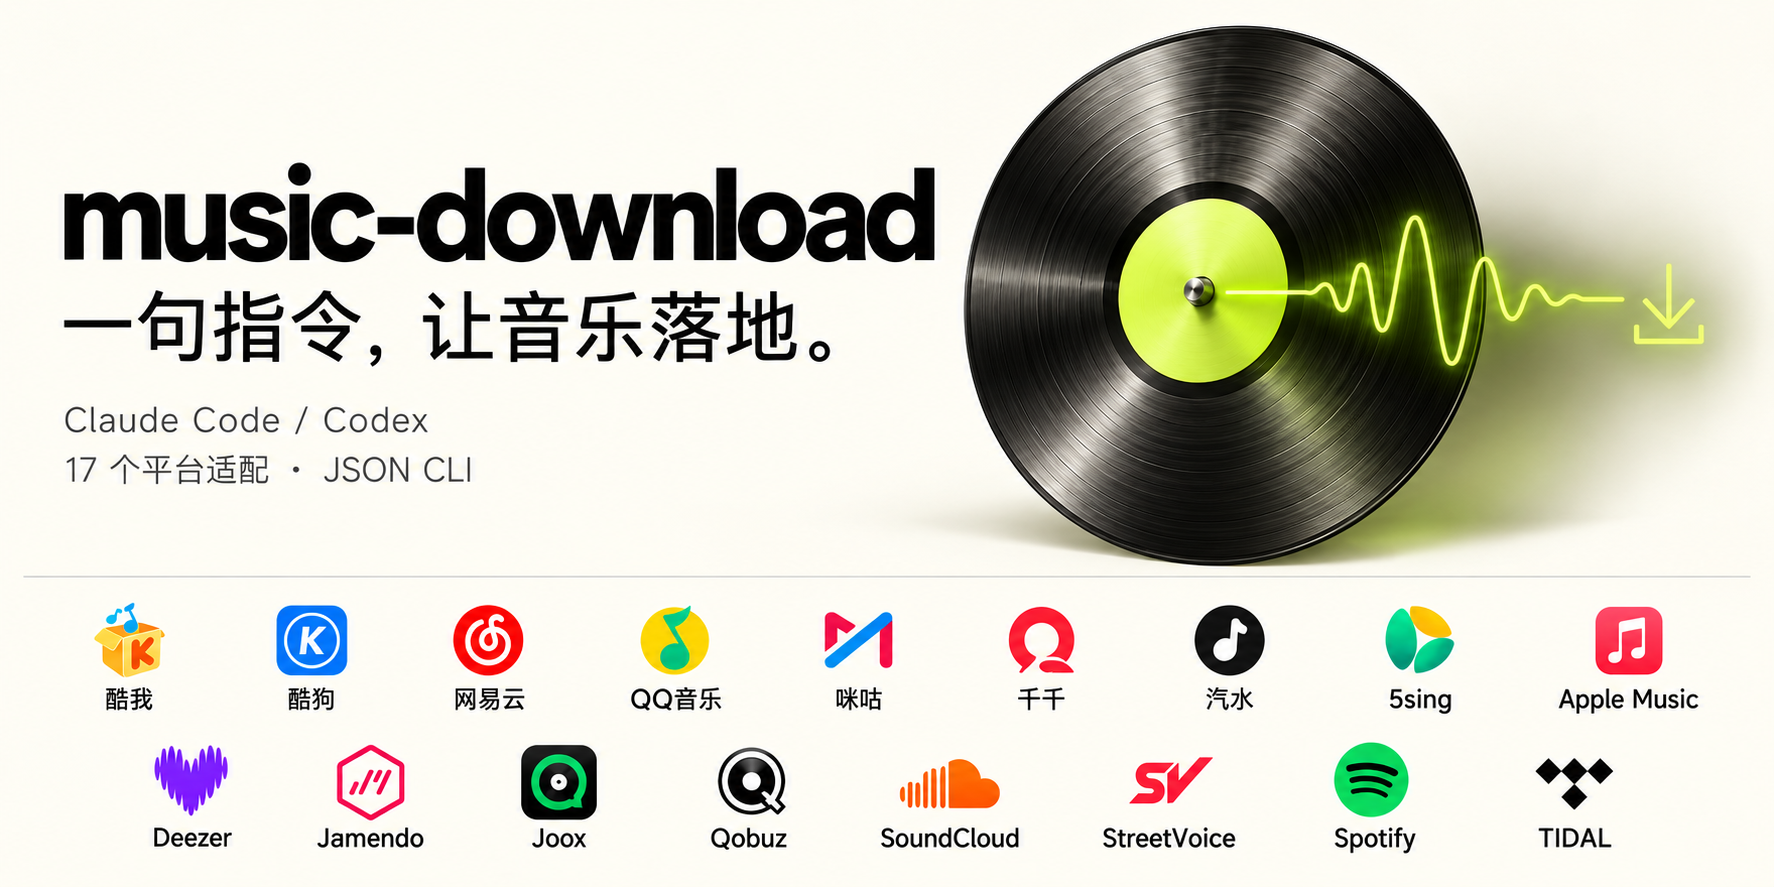
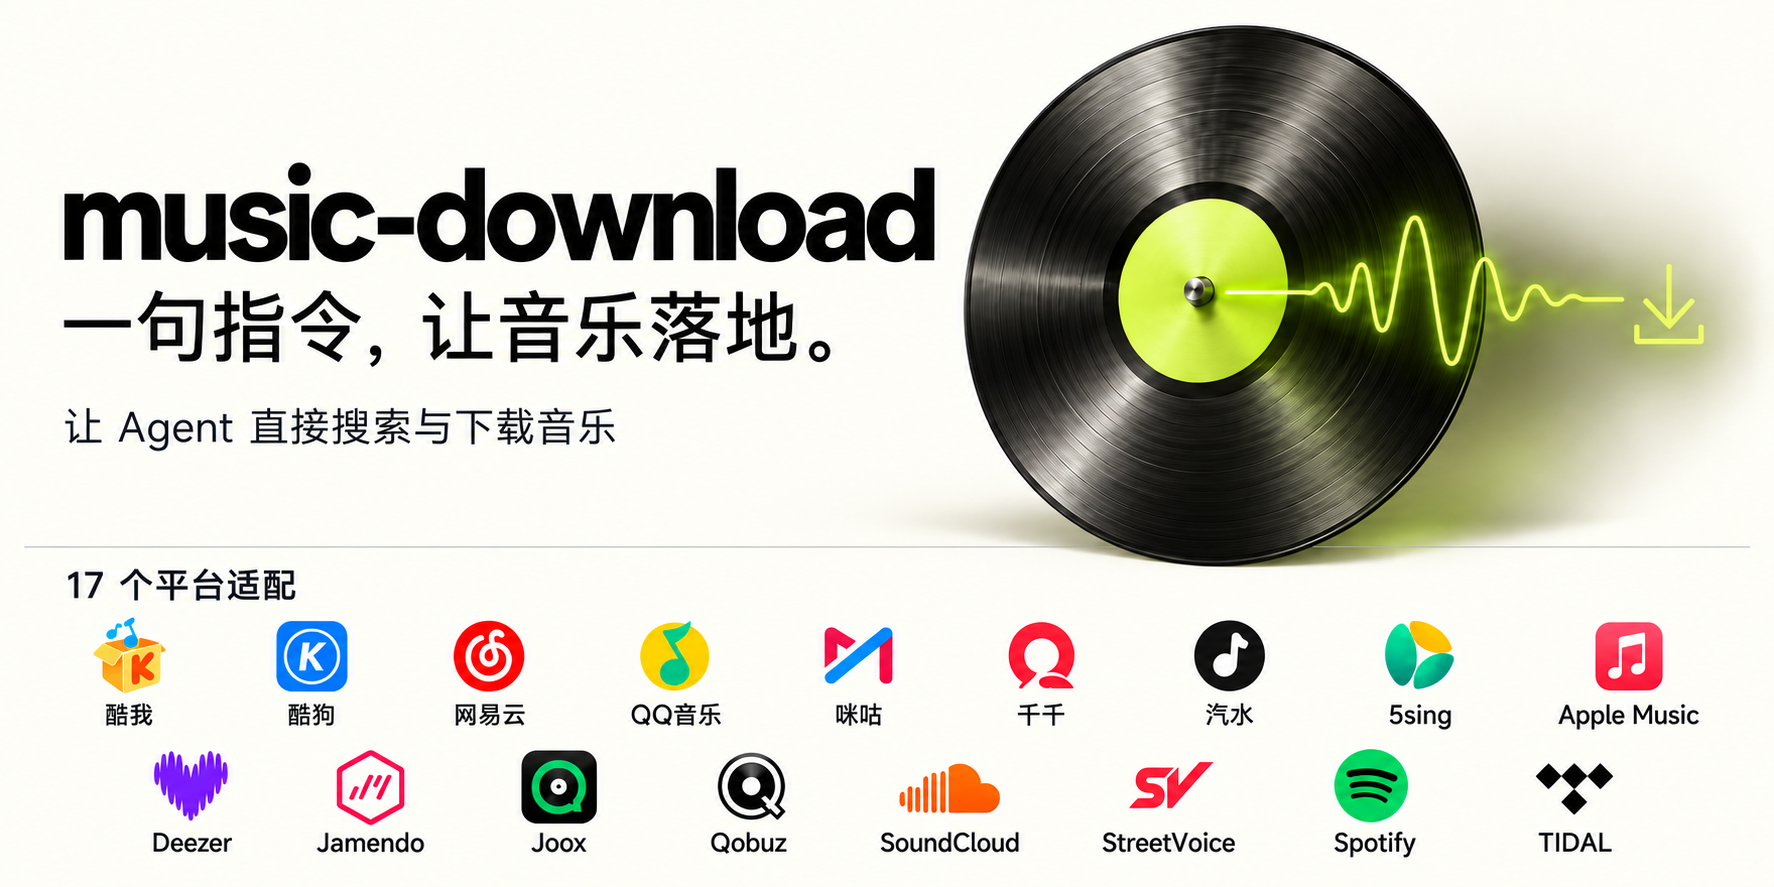
Present music-download as a general agent skill

diff --git a/README.md b/README.md
@@ -1,18 +1,41 @@
 # music-download
 
 <p align="center">
-  <img src="assets/readme-cover.png" alt="music-download：一句指令，让音乐落地。适配酷我、酷狗、网易云、QQ音乐、咪咕、千千、汽水、5sing、Apple Music、Deezer、Jamendo、Joox、Qobuz、SoundCloud、StreetVoice、Spotify、TIDAL。" width="100%">
+  <img src="assets/readme-cover.png" alt="music-download：一句指令，让音乐落地。让 Agent 直接搜索与下载音乐，17 个平台适配。" width="100%">
 </p>
 
-**供 Claude Code、Codex 使用的音乐搜索与下载 skill。** 支持跨平台搜索、歌曲版本选择、单曲与批量下载、歌单解析，结果保存到本地。
+**让 AI Agent 直接搜索与下载音乐。** 一个自带运行脚本的 skill，支持跨平台搜索、歌曲版本选择、单曲与批量下载、歌单解析，结果保存到本地。
 
-你可以指定平台，也可以让 agent 根据需求选择。底层直接调用 musicdl，拥有独立的 Python 环境，无需桌面应用。
+你可以指定平台，也可以让 Agent 根据需求选择。底层直接调用 musicdl，拥有独立的 Python 环境，无需桌面应用。
+
+Agent 需要能够读取本地文件、执行 Shell 命令、联网并保存文件。支持 skill 的工具可以从技能目录加载；其他具备这些能力的 Agent，也可以先读取 [SKILL.md](SKILL.md)，再按说明调用脚本。
 
 ## 安装
 
-需要 **Git 和 uv**。选择对应的安装目录执行，脚本会创建 Python 3.13 环境并安装固定版本依赖。当前实测环境为 macOS arm64，安装脚本使用 POSIX shell。
+需要 **Git 和 uv**。安装脚本会创建 Python 3.13 环境并安装固定版本依赖。当前实测环境为 macOS arm64，脚本使用 POSIX shell。
 
-### Claude Code
+### 交给 Agent 安装
+
+将下面的指令发给具备本地命令执行能力的 Agent：
+
+> 帮我安装 https://github.com/ln2146/music-download 到你使用的技能目录，阅读 SKILL.md 并执行 scripts/setup.sh，然后运行 scripts/music sources 确认安装结果。如果你没有技能目录，就安装到当前工作目录，后续按 SKILL.md 调用。
+
+### 手动安装
+
+在希望保存 skill 的目录中执行：
+
+```sh
+git clone https://github.com/ln2146/music-download.git music-download
+sh music-download/scripts/setup.sh
+music-download/scripts/music sources
+```
+
+然后让 Agent 读取安装目录中的 `SKILL.md`，按说明搜索、解析歌单或下载歌曲。自动发现 skill 的目录因工具而异，下面提供两种安装示例。
+
+<details>
+<summary>Claude Code / Codex 安装目录示例</summary>
+
+**Claude Code**
 
 ```sh
 git clone https://github.com/ln2146/music-download.git ~/.claude/skills/music-download
@@ -20,7 +43,7 @@ sh ~/.claude/skills/music-download/scripts/setup.sh
 ~/.claude/skills/music-download/scripts/music sources
 ```
 
-### Codex
+**Codex**
 
 ```sh
 git clone https://github.com/ln2146/music-download.git ~/.codex/skills/music-download
@@ -28,13 +51,17 @@ sh ~/.codex/skills/music-download/scripts/setup.sh
 ~/.codex/skills/music-download/scripts/music sources
 ```
 
-自定义了 `CODEX_HOME` 时，使用对应的 `skills` 目录。目标目录已有安装时，先检查并保留本地修改。两边分别执行 `setup.sh`；迁移目录后重新创建环境，不直接复制已有 `.venv`。
+自定义了 `CODEX_HOME` 时，使用对应的 `skills` 目录。
+
+</details>
+
+目标目录已有安装时，先检查并保留本地修改。每个安装目录分别执行 `setup.sh`；迁移目录后重新创建环境，不直接复制已有 `.venv`。
 
 ## 使用
 
-安装后，在新会话中直接提出需求：
+安装并让 Agent 加载 `SKILL.md` 后，直接提出需求：
 
-**让 agent 选择平台并下载**
+**让 Agent 选择平台并下载**
 
 > 使用 music-download，帮我下载周杰伦演唱的《晴天》，平台你来选，保存到当前项目的已下载音乐目录。
 
@@ -46,7 +73,7 @@ sh ~/.codex/skills/music-download/scripts/setup.sh
 
 > 使用 music-download，解析这个歌单并列出歌曲，下载我选中的几首。
 
-仅要求搜索时只搜索；明确要求下载且匹配清楚时继续执行。同名歌、翻唱或现场版有歧义时，agent 会展示候选。完整调用规则见 [SKILL.md](SKILL.md)。
+仅要求搜索时只搜索；明确要求下载且匹配清楚时继续执行。同名歌、翻唱或现场版有歧义时，Agent 会展示候选。完整调用规则见 [SKILL.md](SKILL.md)。
 
 <details>
 <summary>进阶：直接调用命令行</summary>
@@ -67,7 +94,7 @@ sh ~/.codex/skills/music-download/scripts/setup.sh
 ./scripts/music playlist --sources streetvoice --url 'https://www.streetvoice.cn/svmusic_cn/playlists/880153/' --timeout 300
 ```
 
-脚本要求显式传入搜索平台。自然语言请求未指定平台时，由 agent 决定参数；脚本不内置固定的平台优先顺序或自动替代源。
+脚本要求显式传入搜索平台。自然语言请求未指定平台时，由 Agent 决定参数；脚本不内置固定的平台优先顺序或自动替代源。
 
 </details>
 

diff --git a/assets/image-prompts.md b/assets/image-prompts.md
@@ -7,7 +7,30 @@
 
 两张图采用一致的黑胶唱片、音频波形与下载符号，配色为石墨黑、暖白与荧光绿。文案中的“17 个平台适配”表示适配范围，不代表所有平台在任何条件下都可下载。实际可用性见项目测试记录。
 
-## 当前封面：完整黑胶与平台图标
+## 当前封面：面向 Agent 的介绍
+
+使用内置 image_gen 编辑上一版封面：将工具名称与技术说明替换为“让 Agent 直接搜索与下载音乐”，把“17 个平台适配”移至底部图标区域。保留完整黑胶、音频波形、下载符号及全部平台图标与名称。平台图标沿用 AI 重绘版。
+
+参考图：`readme-cover.png`（完整黑胶与平台图标版）。
+
+```text
+Use case: text-localization / precise marketing image edit.
+Input image is the EDIT TARGET, the current music-download README cover. Make a surgical typography and layout refinement, preserving the 2:1 horizontal format and almost all visual identity and artwork.
+Preserve the exact large title "music-download", the headline "一句指令，让音乐落地。", warm ivory background, realistic black vinyl record with acid-lime label, glowing waveform and download arrow. Preserve the completely visible unobstructed record outer rim, its position and photographic quality. Preserve ALL 17 existing platform icons and their exact names, in the same two-row order. Do not redraw or redesign the icons unnecessarily.
+
+REQUESTED CHANGES:
+1. Remove both left-hand small lines "Claude Code / Codex" and "17 个平台适配 · JSON CLI" completely.
+2. In their place, use a single clear restrained supporting sentence, verbatim: "让 Agent 直接搜索与下载音乐". Make it smaller than the headline, near-black, comfortably spaced, aligned with the large title. Do not include names of specific agents or technical words such as JSON or CLI anywhere in the image.
+3. Move the phrase "17 个平台适配" to the bottom platform directory, as a compact but legible left-aligned section heading immediately below the thin divider and above the two icon rows. Add enough vertical space to fit it cleanly; slightly increase canvas height if necessary, maintaining a horizontal banner. The heading must not touch any icon or the vinyl; retain generous breathing room.
+4. Keep all existing platform labels precisely:
+row 1: 酷我, 酷狗, 网易云, QQ音乐, 咪咕, 千千, 汽水, 5sing, Apple Music
+row 2: Deezer, Jamendo, Joox, Qobuz, SoundCloud, StreetVoice, Spotify, TIDAL
+Every name appears exactly once. The bottom section is separate from the hero, with no overlap. Keep recognizable colorful small icons and near-black text, on plain ivory without cards. No changes to platform count.
+
+Final artwork only. No red annotation box, no screenshot borders, no browser UI, no watermark, no new promotional claims. Target a cleaner, more universal Agent-facing README cover.
+```
+
+## 历史封面：完整黑胶与平台图标
 
 使用内置 image_gen 编辑平台名单版封面。将黑胶与平台目录分区，完整显示唱片外缘，底部两行展示全部 17 个平台的图标与名称。平台图标为 AI 重绘，并非从官方矢量源文件直接导入。
 
